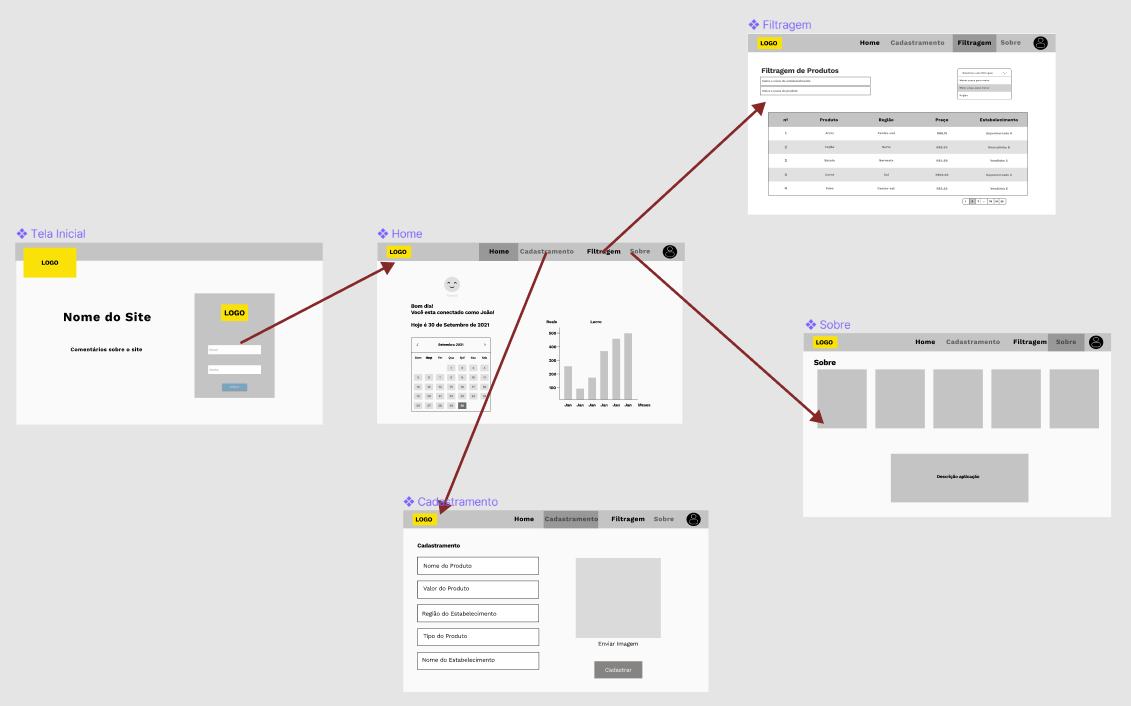
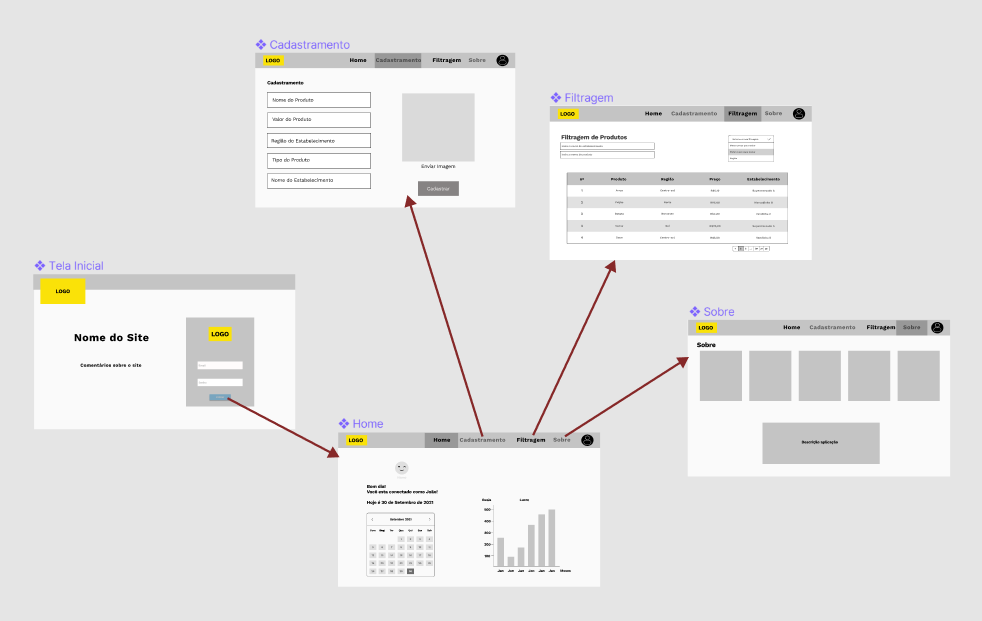
alteracao da interface
acrescentei a parte do user flow

diff --git a/Documentacao/3-Interface.md b/Documentacao/3-Interface.md
@@ -3,33 +3,14 @@
 
 <span style="color:red">Pré-requisitos: <a href="2-Especificação.md"> Documentação de Especificação</a></span>
 
-Foram criadas cinco telas sendo a tela inicial a tela de "login", a tela "home"
-
+O software a ser criado é uma aplicação web. Foram elaboradas cinco telas: "login", "home", "cadastramento", "filtragem" e "sobre". A tela inicial é a tela de login, na qual o usuário realiza o seu cadastro e o encaminha para a tela "home", na qual tem acesso às demais telas.
+Na tela cadastramento, o usuário poderá fazer o cadastramento do nome, valor e tipo do produto, além do nome do estabelecimento e a região na qual o estabelecimento está localizado.
+Na tela filtragem, o usuário consegue realizar a pesquisa de produtos por nome do estabelecimento e por nome do produto e ordenar o resultado da pesquisa por região e por preço.
+Na tela sobre, está localizada a descrição da aplicação e as informações sobre a equipe que desenvolveu o produto, os integrantes do grupo.
 
 ## User Flow
 
-
-![alt](images/Interface.png)
-
-
-
-
-> Apresente as principais a interface da plataforma. Discuta como ela
-> foi elaborada de forma a atender os requisitos funcionais, não
-> funcionais e histórias de usuário abordados nas [Especificações do
-> Projeto](2-Especificação.md).
-
-![Exemplo de UserFlow](images/userflow.jpg)
-
-> Fluxo de usuário (User Flow) é uma técnica que permite ao desenvolvedor
-> mapear todo fluxo de telas do site ou app. Essa técnica funciona
-> para alinhar os caminhos e as possíveis ações que o usuário pode
-> fazer junto com os membros de sua equipe.
->
-> **Links Úteis**:
-> - [User Flow: O Quê É e Como Fazer?](https://medium.com/7bits/fluxo-de-usu%C3%A1rio-user-flow-o-que-%C3%A9-como-fazer-79d965872534)
-> - [User Flow vs Site Maps](http://designr.com.br/sitemap-e-user-flow-quais-as-diferencas-e-quando-usar-cada-um/)
-
+![alt](images/Interface/Interface.png)
 
 ## Wireframes
 

diff --git a/README.md b/README.md
@@ -1,7 +1,8 @@
 [![Open in Visual Studio Code](https://classroom.github.com/assets/open-in-vscode-f059dc9a6f8d3a56e377f745f24479a46679e63a5d9fe6f495e02850cd0d8118.svg)](https://classroom.github.com/online_ide?assignment_repo_id=453586&assignment_repo_type=GroupAssignmentRepo)
-# Nome do projeto
 
-Escreva um ou dois  parágrafo resumindo o objetivo do seu projeto.
+# Save Money
+
+Permitir ao usuário que conheça os preços de produtos de diversas regiões, viabilizando uma escolha consciente pelo estabelecimento em que realizará suas compras, permitindo, assim, que possa controlar melhor os seus gastos e sua vida financeira. 
 
 ## Alunos integrantes da equipe
 
